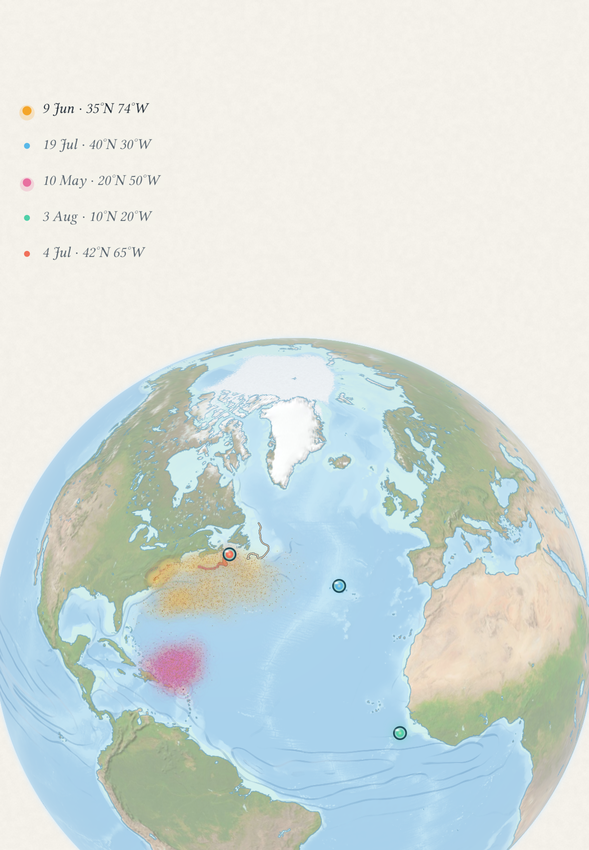
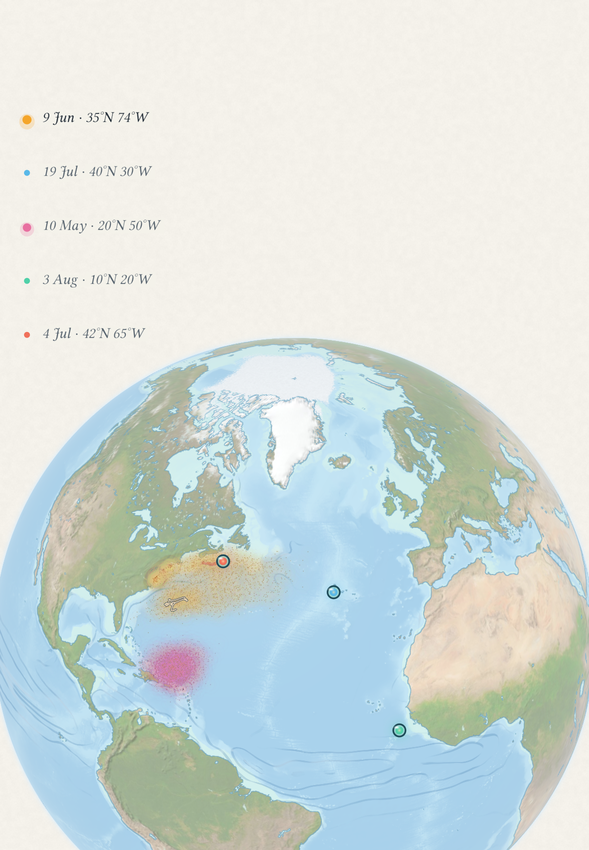
Adrift R6 look: the panel's rows 36 points tall, a thumb's reach [skip ci]
Each row's rect in panel_bounds is Motion's touch target; at 24 points rows sat under one fingertip.
Merged adrift's head (the poles) first. Painting-company row 196.

Claude-Session: https://claude.ai/code/session_01BAtskA4ow53cTjABorJ2xR

diff --git a/adrift/crates/adrift-core/src/look/words.rs b/adrift/crates/adrift-core/src/look/words.rs
@@ -317,7 +317,8 @@ impl Words {
         } else {
             ([0.149, 0.188, 0.227, 1.0], [0.243, 0.298, 0.353, 0.85], [0.761, 0.894, 0.957, 0.92], [0.96, 0.95, 0.92, 0.92])
         };
-        let row_h = 24.0 * reading;
+        // (36 points a row: a thumb picks the right lamp; Motion takes each row's rect as its target)
+        let row_h = 36.0 * reading;
         let x0 = 12.0 * reading;
         let top = PANEL_TOP * reading;
         let size = 10.0 * reading;

diff --git a/adrift/crates/adrift-core/src/look/README.md b/adrift/crates/adrift-core/src/look/README.md
@@ -102,7 +102,7 @@ and `look_state()`:
 - **The panel** (`words.rs › Words::panel`): a very small column at the top left (from 60 reading
   points down), one row a lamp, oldest first, the latest ten: its mark, a filled lamp in its own hue
   (large with a soft glow of its colour while its cloud is out, small while not; the front the largest) and where and when it was put in 10 pt
-  italic ("9 Jun · 35°N 74°W"). Rows are 24 reading points tall; `panel_bounds` holds each row's whole
+  italic ("9 Jun · 35°N 74°W"). Rows are 36 reading points tall (a thumb's reach, Motion's ask); `panel_bounds` holds each row's whole
   rect (from 6 points left of the mark to the end of the widest line) for Motion's probe.
 - **Several clouds** (`maybes.rs`): laid in turns, an eighth of each in turn, so where they overlap
   their hues mix like two sands and where the currents part them each is its own colour; the ones
